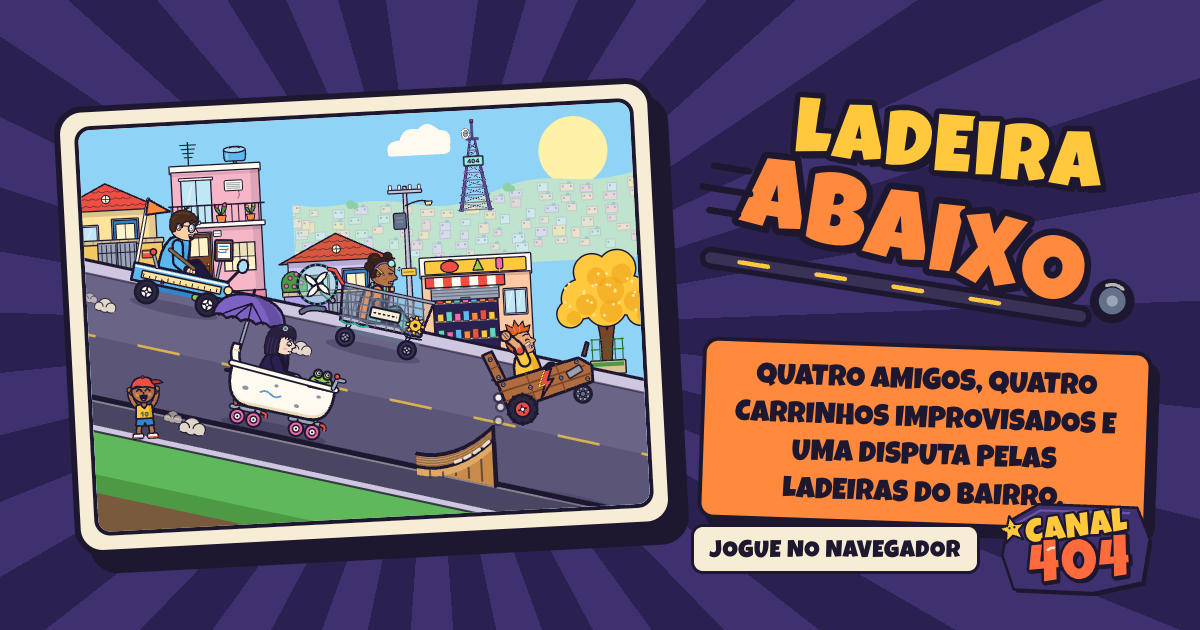
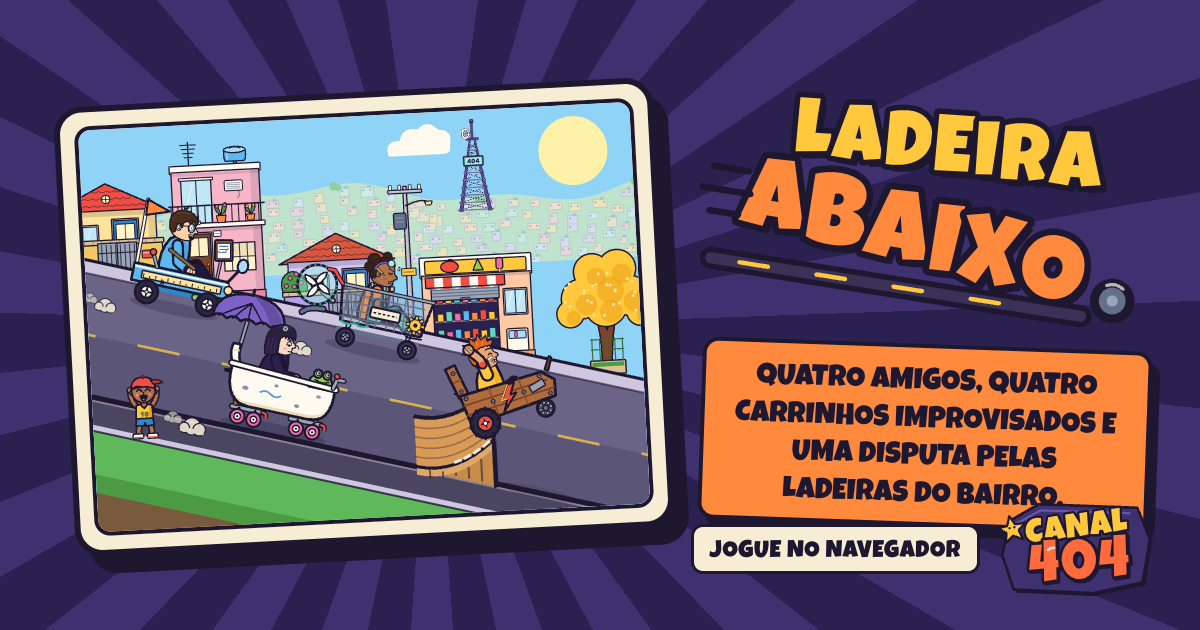
Seat Déco on the cover ramp and tile the hill
Déco now takes off with his rear wheel on the lip of a full-width wooden ramp instead of floating beside a thin plank, and the textured hill behind the houses repeats across the whole cover instead of ending in a straight cut. The share images are regenerated.

Changed region(s): [[0.2158, 0.2714, 0.5242, 0.4524], [0.3392, 0.5127, 0.4933, 0.754], [0.1233, 0.3317, 0.1542, 0.3921]]

diff --git a/src/components/art/DownhillDerbyArt.tsx b/src/components/art/DownhillDerbyArt.tsx
@@ -319,13 +319,14 @@ export function DownhillDerbyCoverArt() {
   const bruno = { x: 50, y: lane(50, BACK_ROW) };
   const lina = { x: 164, y: lane(164, BACK_ROW) };
   const mila = { x: 104, y: lane(104, -10) };
-  const deco = { x: 268, y: lip.y - 14 };
+  const deco = { x: lip.x + 15, y: lip.y - 7 };
   return (
     <>
       <rect width={320} height={240} fill={C.sky} />
       <circle cx={286} cy={30} r={20} fill={C.sun} />
       <Cloud x={196} y={22} s={0.5} />
-      <Kit name="sample/bg-morro" cx={250} ground={92} k={0.16} w={1600} h={420} />
+      <Kit name="sample/bg-morro" cx={68} ground={92} k={0.16} w={1600} h={420} />
+      <Kit name="sample/bg-morro" cx={324} ground={92} k={0.16} w={1600} h={420} />
       <Kit name="antena/antena-404" cx={228} ground={62} k={0.045} w={648} h={1196} />
       <CoverHouse road={road} name="facade-terrea-amarelo" x={14} k={0.15} w={468} h={390} />
       <CoverHouse road={road} name="facade-sobrado-rosa" x={78} k={0.15} w={428} h={648} />
@@ -341,12 +342,11 @@ export function DownhillDerbyCoverArt() {
       <Shadow x={lina.x} y={lina.y} w={56} angle={a} />
       <Dust x={lina.x - 36} y={lina.y} angle={a} r={4} />
       <Racer who="lina" x={lina.x} y={lina.y} s={s} angle={a} face="strain" arm="grip" spin={20} />
-      <Ramp road={road} x0={ramp.x0} len={ramp.len} rise={ramp.rise} back={-24} />
+      <Ramp road={road} x0={ramp.x0} len={ramp.len} rise={ramp.rise} back={-96} />
       <Shadow x={mila.x} y={mila.y} w={62} angle={a} />
       <Dust x={mila.x - 40} y={mila.y} angle={a} r={5} />
       <Racer who="mila" x={mila.x} y={mila.y} s={s} angle={a} face="smug" />
       <Shadow x={deco.x + 10} y={lane(deco.x + 10, 0)} w={46} angle={a} opacity={0.16} />
-      <Dots from={{ x: lip.x + 2, y: lip.y - 6 }} via={{ x: lip.x + 8, y: lip.y - 22 }} to={{ x: deco.x - 34, y: deco.y - 12 }} n={3} r={1.8} />
       <Racer who="deco" x={deco.x} y={deco.y} s={s} angle={-16} face="happy" arm="up" reach={-24} />
     </>
   );
